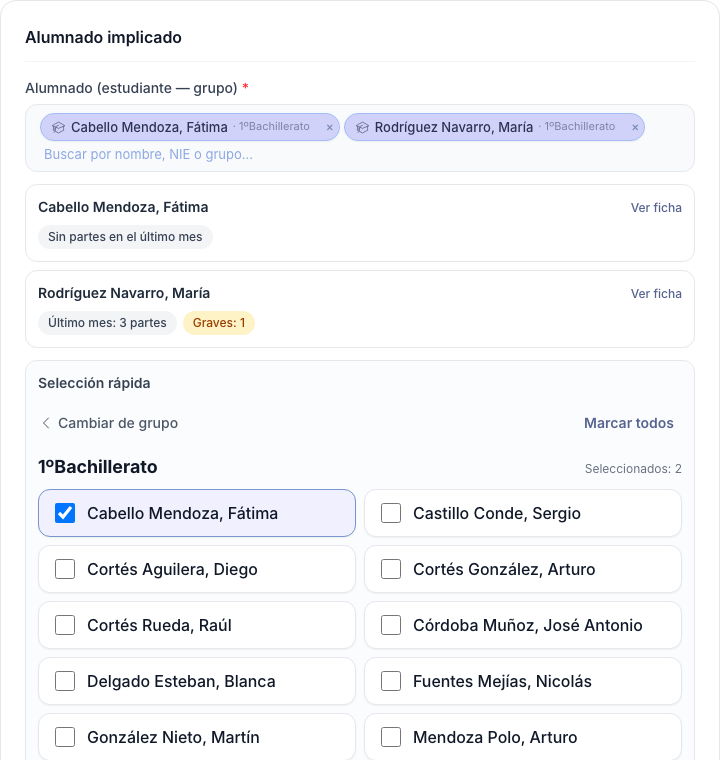
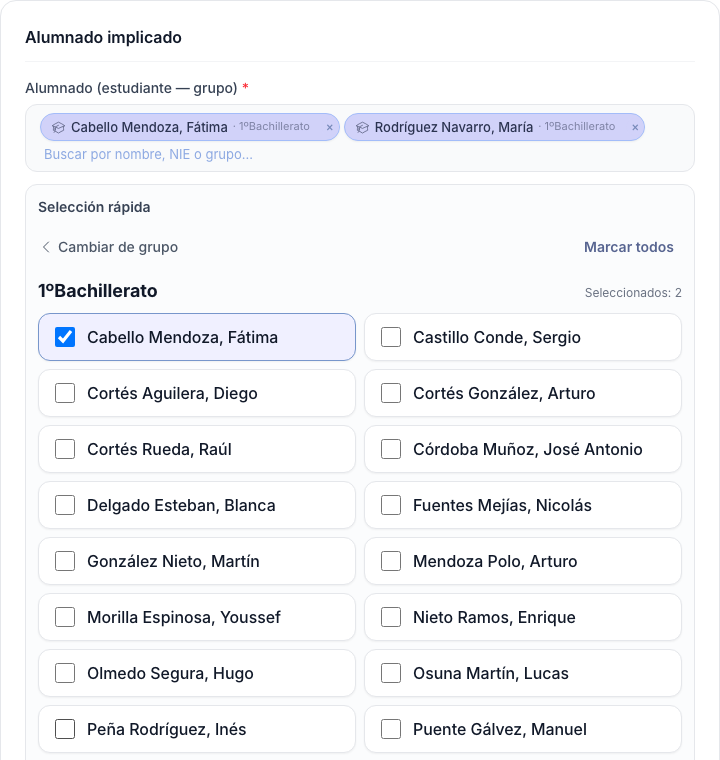
style(incident): las tarjetas de antecedentes de los estudiantes elegidos van después de la selección rápida en el parte; capturas y manual al día

diff --git a/docs/manual/04-convivencia-profesorado.md b/docs/manual/04-convivencia-profesorado.md
@@ -44,10 +44,10 @@ especiales amplían esa visibilidad (ver [Permisos de un vistazo](15-permisos-de
    desactivarla para toda la plataforma, para un centro o para ti (ver
    [Ajustes disponibles](13-administrar-la-plataforma.md#ajustes-disponibles)).
 
-   ![Dos estudiantes elegidos, con la tarjeta de antecedentes de cada una y la lista del grupo para marcar más](img/partes/nuevo-parte-selector-alumnado.png)
+   ![Dos estudiantes elegidos como etiquetas y la lista del grupo para marcar más](img/partes/nuevo-parte-selector-alumnado.png)
 
-   **Antecedentes.** Al elegir a un estudiante, justo debajo aparece una tarjeta con un resumen de su
-   situación: los **partes del último mes** (y cuántos incluyen conductas graves), si tiene una
+   **Antecedentes.** Al elegir a un estudiante, debajo de la selección rápida aparece una tarjeta con un
+   resumen de su situación: los **partes del último mes** (y cuántos incluyen conductas graves), si tiene una
    **sanción vigente** (con su fecha de fin) y sus **notas activas** por tipo, con un enlace a su
    [ficha](#ficha-del-estudiante). Hay una tarjeta por estudiante, hasta cinco; con más estudiantes
    elegidos no se muestra para no sobrecargar la pantalla. El resumen **solo incluye lo que la ficha
@@ -55,6 +55,8 @@ especiales amplían esa visibilidad (ver [Permisos de un vistazo](15-permisos-de
    tutorizas y no administras el centro) solo verás los partes y sanciones que tú hayas registrado, y la
    tarjeta no afirma que «no tiene partes», porque no puedes verlos todos. Las notas activas se muestran
    siempre que la sección Notas esté activada.
+
+   ![Tarjetas de antecedentes de los dos estudiantes elegidos](img/partes/nuevo-parte-antecedentes.png)
 
 3. **Fecha y hora del suceso** — por defecto se rellena con el momento actual; modifícala si el
    parte se registra después del incidente.
